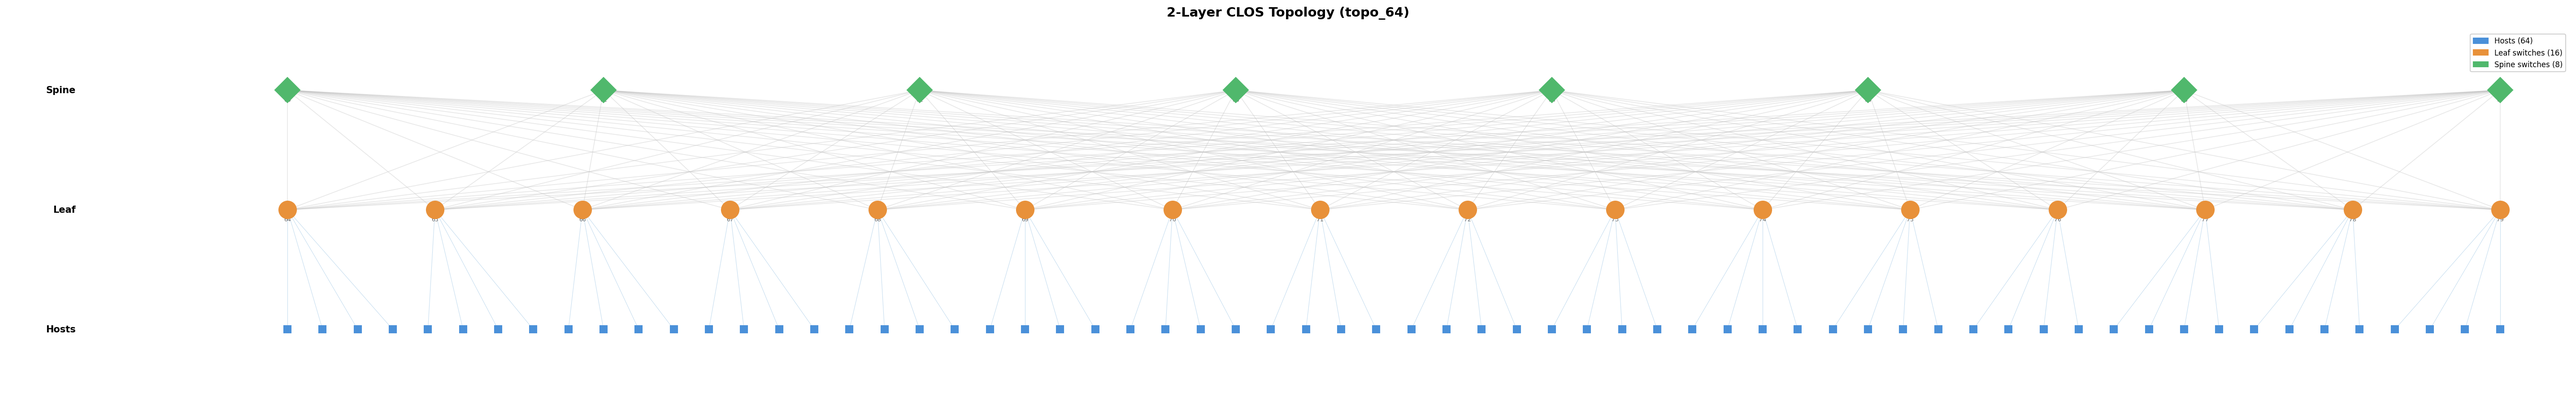
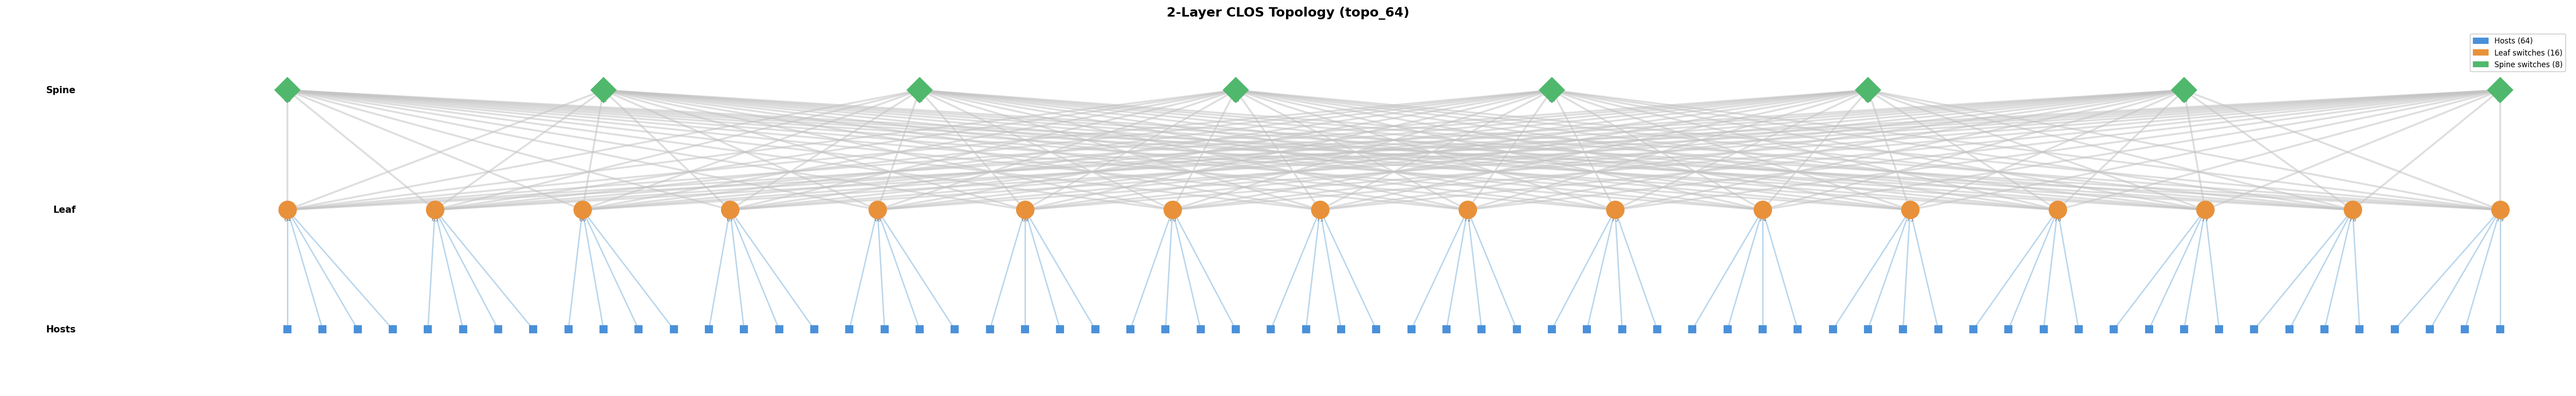
Update README and PNG generation support

Changed region(s): [[0.1246, 0.2138, 0.9659, 0.5498]]

diff --git a/src/clos_generator/visualize.py b/src/clos_generator/visualize.py
@@ -89,15 +89,15 @@ def visualize_topology(
                 uplink_lines.append([p1, p2])
 
     if host_lines:
-        lc = LineCollection(host_lines, colors=COLORS["host_link"], linewidths=0.5, alpha=0.5)
+        lc = LineCollection(host_lines, colors=COLORS["host_link"], linewidths=1.5, alpha=0.6)
         ax.add_collection(lc)
     if uplink_lines:
-        lc = LineCollection(uplink_lines, colors=COLORS["uplink"], linewidths=0.8, alpha=0.4)
+        lc = LineCollection(uplink_lines, colors=COLORS["uplink"], linewidths=2.0, alpha=0.55)
         ax.add_collection(lc)
 
     # Draw nodes
-    node_size_host = max(8, 200 / max(len(hosts), 1))
-    node_size_switch = max(15, 300 / max(len(leafs), len(spines), 1))
+    node_size_host = min(25, max(8, 200 / max(len(hosts), 1)))
+    node_size_switch = min(35, max(15, 300 / max(len(leafs), len(spines), 1)))
 
     for nid in hosts:
         x, y = positions[nid]

diff --git a/notes/slide6-spine-minimization-examples.md b/notes/slide6-spine-minimization-examples.md
@@ -1,0 +1,93 @@
+# SLIDE 6 -- Spine Minimization: Numerical Examples
+
+## Algorithm Recap
+
+```
+max_links_per_pair = ports_per_switch // num_leafs
+links_per_pair     = largest_divisor(north_ports, <= max_links_per_pair)
+num_spines         = north_ports / links_per_pair
+```
+
+---
+
+## Case 1: Default Parameters Scaling (32-port switches)
+
+**Setup**: `ports_per_switch = 32`, `north_ports = 16`
+
+| num_leafs | max_links_per_pair | links_per_pair | num_spines | spine ports used | naive spines (lpp=1) | switches saved |
+|:---------:|:------------------:|:--------------:|:----------:|:----------------:|:--------------------:|:--------------:|
+| 1         | 32                 | 16             | **1**      | 16/32 (50%)      | 16                   | 15             |
+| 2         | 16                 | 16             | **1**      | 32/32 (100%)     | 16                   | 15             |
+| 4         | 8                  | 8              | **2**      | 32/32 (100%)     | 16                   | 14             |
+| 8         | 4                  | 4              | **4**      | 32/32 (100%)     | 16                   | 12             |
+| 16        | 2                  | 2              | **8**      | 32/32 (100%)     | 16                   | 8              |
+| 32        | 1                  | 1              | **16**     | 32/32 (100%)     | 16                   | 0              |
+
+**Insight**: With power-of-2 port counts, every `max_links_per_pair` is already a divisor of `north_ports`, so there's never a divisor gap. Spine count doubles each time leafs double. At 32 leafs, the optimization can't help -- each spine has exactly 1 port per leaf.
+
+---
+
+## Case 2: Divisor Gap (48-port switches)
+
+**Setup**: `ports_per_switch = 48`, `north_ports = 24`, divisors of 24 = {1, 2, 3, 4, 6, 8, 12, 24}
+
+| num_leafs | max_links_per_pair | links_per_pair | **gap** | num_spines | spine util   |
+|:---------:|:------------------:|:--------------:|:-------:|:----------:|:------------:|
+| 5         | 9                  | **8**          | 1       | 3          | 40/48 (83%)  |
+| 9         | 5                  | **4**          | 1       | 6          | 36/48 (75%)  |
+| 11        | 4                  | **4**          | 0       | 6          | 44/48 (92%)  |
+| 7         | 6                  | **6**          | 0       | 4          | 42/48 (88%)  |
+
+**Insight**: When `max_links_per_pair` doesn't divide `north_ports`, the algorithm drops to the next-lower divisor. With 5 leafs, the budget is 9 links/pair but 9 doesn't divide 24 -- we fall to 8, needing 3 spines instead of the theoretical minimum of ~2.67 (impossible anyway). The gap wastes spine ports: `5 * 8 = 40` out of 48 used.
+
+---
+
+## Case 3: Bigger Switch = Fewer Spines
+
+**Same fabric (16 leafs)**, different switch sizes:
+
+| ports_per_switch | north_ports | max_links_per_pair | links_per_pair | num_spines | total switches |
+|:----------------:|:-----------:|:------------------:|:--------------:|:----------:|:--------------:|
+| 32               | 16          | 2                  | 2              | **8**      | 24             |
+| 48               | 24          | 3                  | 3              | **8**      | 24             |
+| 64               | 32          | 4                  | 4              | **8**      | 24             |
+| 128              | 64          | 8                  | 8              | **8**      | 24             |
+
+Interestingly, 16 leafs always yields 8 spines here because `north_ports / (ports_per_switch / num_leafs)` simplifies to `num_leafs / 2` when everything divides cleanly.
+
+Now try **10 leafs** (where things get interesting):
+
+| ports_per_switch | north_ports | max_links_per_pair | links_per_pair | num_spines | spine util    |
+|:----------------:|:-----------:|:------------------:|:--------------:|:----------:|:-------------:|
+| 32               | 16          | 3                  | **2**          | **8**      | 20/32 (63%)   |
+| 48               | 24          | 4                  | **4**          | **6**      | 40/48 (83%)   |
+| 64               | 32          | 6                  | **4**          | **8**      | 40/64 (63%)   |
+| 128              | 64          | 12                 | **8**          | **8**      | 80/128 (63%)  |
+
+**Insight**: Bigger switches don't always help. With 10 leafs, the 48-port switch actually achieves the fewest spines (6) because its `north_ports = 24` has richer divisors that align with the constraint. The 64-port switch has `max_links_per_pair = 6` but the largest divisor of 32 that's <= 6 is only 4, wasting budget.
+
+---
+
+## Case 4: Extreme -- Single Spine (Best Possible)
+
+A single spine is achievable when `north_ports <= ports_per_switch / num_leafs`, i.e., one spine can absorb all north links from all leafs.
+
+| ports_per_switch | north_ports | num_leafs | max_links_per_pair | links_per_pair | num_spines |
+|:----------------:|:-----------:|:---------:|:------------------:|:--------------:|:----------:|
+| 32               | 16          | 2         | 16                 | 16             | **1**      |
+| 64               | 32          | 2         | 32                 | 32             | **1**      |
+| 128              | 64          | 2         | 64                 | 64             | **1**      |
+
+**Condition**: `num_leafs <= ports_per_switch / north_ports = 2` (for the 50/50 split). So a single spine is only possible with 1 or 2 leafs.
+
+---
+
+## Summary of Key Takeaways
+
+| Scenario | What happens | Spine impact |
+|---|---|---|
+| **Power-of-2 ports & leafs** | `max_links_per_pair` always divides `north_ports` | No waste, optimal |
+| **Divisor gap** | `max_links_per_pair` is not a divisor of `north_ports` | Extra spines + wasted spine ports |
+| **Few leafs, big switch** | `links_per_pair` can be very large | Collapses to 1-2 spines |
+| **Leafs = ports_per_switch** | `max_links_per_pair = 1`, no aggregation possible | `num_spines = north_ports` (maximum) |
+| **Richer divisor set** (e.g., 24 vs 32 north_ports) | More "landing spots" for the divisor search | Can beat larger switches in specific cases |

diff --git a/README.md b/README.md
@@ -4,6 +4,32 @@
 Produces non-oversubscribed fabrics with the minimum number of switches
 while maintaining full symmetry and bisection bandwidth.
 
+Google Slide Presentation: [link](https://docs.google.com/presentation/d/1KPUpbwwkNCe5dkujLZHlIwLRMtDhSrhHGaB6vuhhZjk/edit?usp=sharing)
+
+## Task
+
+Build a topology generation script that takes:
+
+- **Switch throughput** -- total switching capacity per switch (e.g. 6400 Gbps)
+- **NIC throughput** -- total escape throughput per network card (e.g. 800 Gbps)
+- **Link bandwidth** -- per-link bandwidth (e.g. 200 Gbps)
+- **Host count** -- total number of hosts (e.g. 128)
+
+And calculates a 2-layer CLOS topology with the minimum number of switches overall while staying symmetric and having no oversubscription.
+
+### Requirements
+
+1. **ID scheme**: `[0, num_hosts-1]` for hosts, `[num_hosts, num_hosts+num_switches-1]` for switches.
+2. **Output format**: JSON file containing a list of point-to-point links as `[src, dst, speed]` tuples.
+3. **Link aggregation**: Aggregate multiple links between the same device pair when possible.
+4. **Port reporting**: Output the utilized ports per layer and the number of switches per layer.
+
+### Stretch Goals
+
+- Robust sweep script over host counts `[4, 8, 16, 32, 64]` (powers of 2), idempotent so re-runs only trigger failed configurations.
+- Alternative topology support (e.g. Dragonfly).
+
+
 ## Example CLOS Architecture
 
 ![CLOS Topology](example_clos_topology.png)
